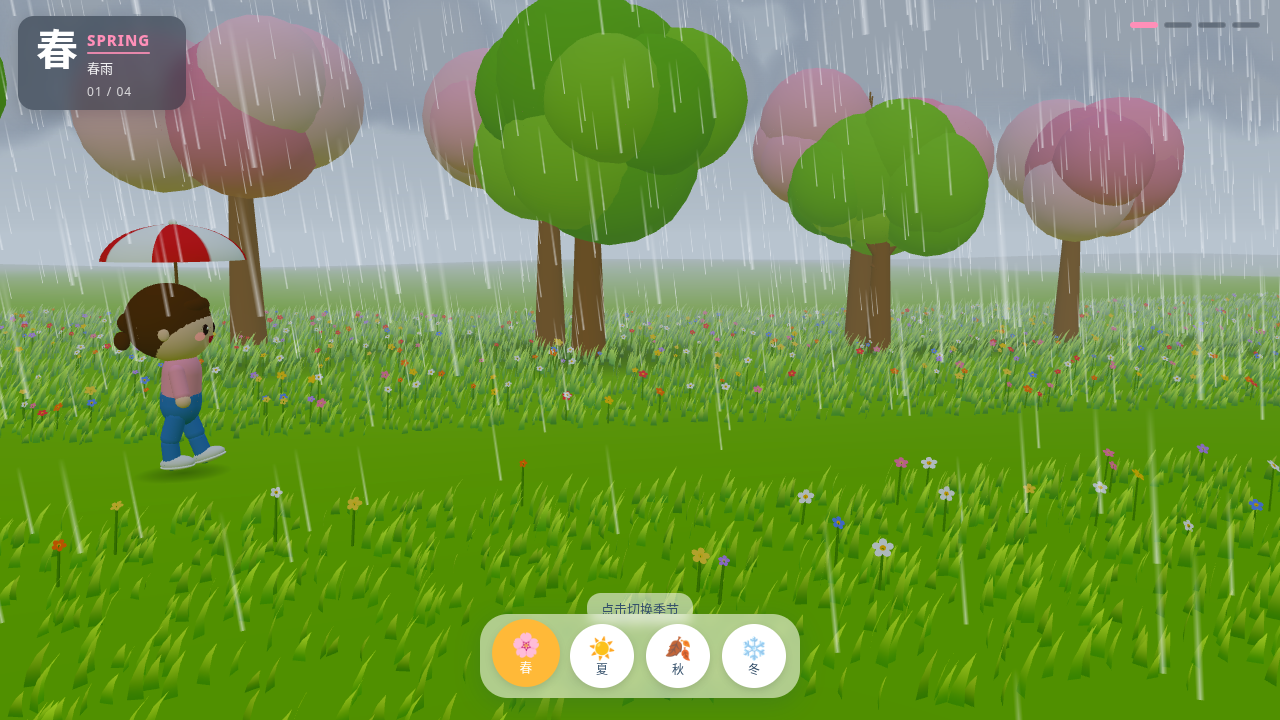
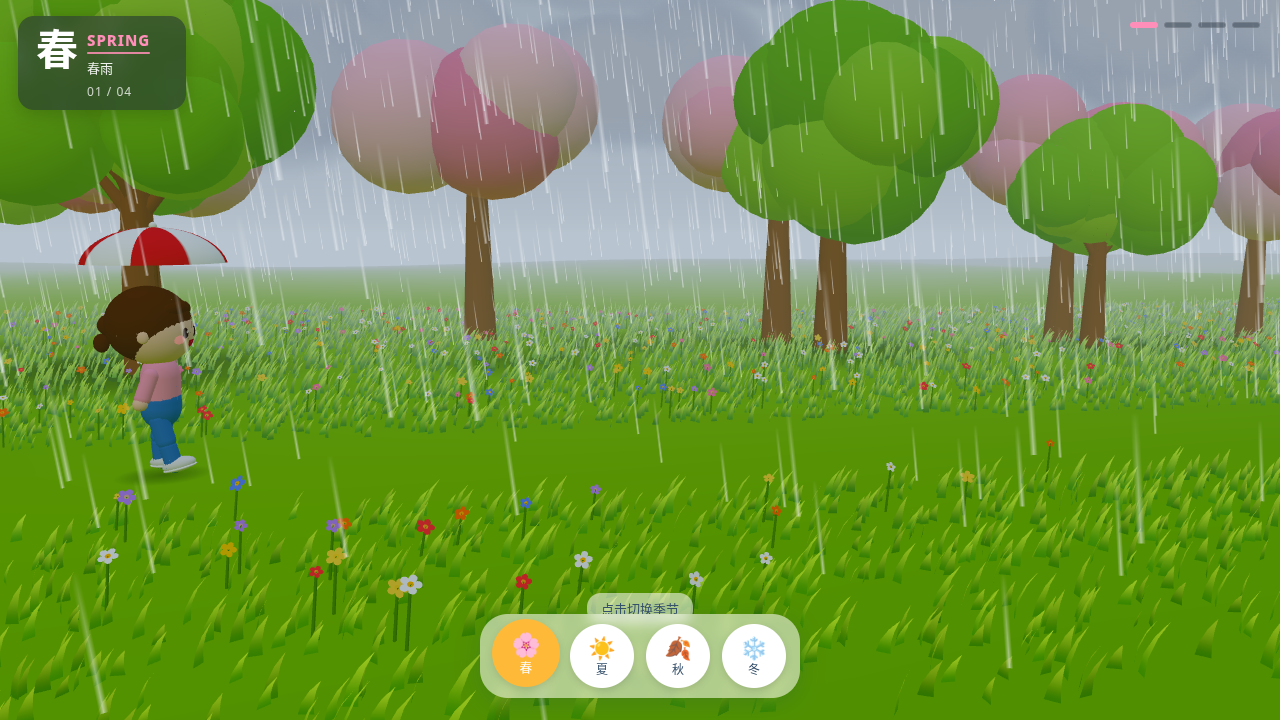
放慢走路节奏，步态更柔和
步速与步频降低，步幅和摆臂收小，膝盖弯曲更轻。

diff --git a/main.js b/main.js
@@ -561,7 +561,7 @@ const kids = [];
   scene.add(k);
   Object.assign(k.userData, {
     season: name, blob: blob(1, pathCZ(1), 0.38, 1.1), heading: Math.PI / 2,
-    walkPh: 0, w: { walk: 1, sit: 0, look: 0 }, act: 'walk', speed: 1.22,
+    walkPh: 0, w: { walk: 1, sit: 0, look: 0 }, act: 'walk', speed: 0.62,
   });
   if (d.umbrella) {
     const g = new THREE.Group();
@@ -836,30 +836,34 @@ function update(dt) {
   hero.userData.heading = Math.PI / 2;
   hero.rotation.y = hero.userData.heading;
   hero.userData.blob.position.set(hero.position.x, hgt(hero.position.x, hero.position.z) + 0.03, hero.position.z + 0.05);
-  hero.userData.walkPh += dt * hero.userData.speed * 11.5;
+  // Slow graceful cadence (decoupled from travel speed)
+  hero.userData.walkPh += dt * 5.8;
   const ph = hero.userData.walkPh;
-  const wc = Math.sin(ph), ww = 1;
-  const armW = Math.sin(ph - 0.28); // arms slightly delayed vs legs
+  const wc = Math.sin(ph);
+  const armW = Math.sin(ph - 0.35);
   const u = hero.userData;
-  const stride = 0.82; // thigh peak ~0.7–0.9 rad
+  const stride = 0.48; // softer, prettier stride
   u.legs.forEach((l, i) => {
-    const side = i ? 1 : -1; // clear opposite L/R phase
-    const thighAng = side * wc * stride * ww;
-    l.rotation.x = thighAng; l.rotation.z = 0;
-    // Knee folds on swing leg when thigh is forward/up
-    const forward = Math.max(0, side * wc);
-    if (l.userData.shin) l.userData.shin.rotation.x = -forward * 0.95 * ww;
+    const side = i ? 1 : -1;
+    l.rotation.x = side * wc * stride;
+    l.rotation.z = 0;
+    // Gentle knee bend only on the swinging forward half
+    const swing = Math.max(0, side * wc);
+    if (l.userData.shin) l.userData.shin.rotation.x = -swing * 0.55;
   });
-  // Double-frequency step bob
-  u.body.position.y = Math.abs(Math.sin(ph * 2)) * 0.03 * ww;
-  u.torso.scale.y = 1 + Math.sin(simTime * 1.6 + u.ph) * 0.012;
-  u.torso.rotation.x = 0.1; // subtle forward lean
-  u.torso.rotation.y = -wc * 0.07 * ww; // shoulder/torso yaw swagger
-  u.head.rotation.x = -0.04; u.head.rotation.z = Math.sin(simTime * 0.6 + u.ph) * 0.03; u.head.position.set(0, 1.11, 0);
+  // Soft double-step bob
+  const bob = Math.sin(ph * 2);
+  u.body.position.y = bob * bob * 0.018;
+  u.torso.scale.y = 1 + Math.sin(simTime * 1.2 + u.ph) * 0.008;
+  u.torso.rotation.x = 0.05;
+  u.torso.rotation.y = -wc * 0.035;
+  u.head.rotation.x = -0.02;
+  u.head.rotation.z = Math.sin(simTime * 0.5 + u.ph) * 0.02;
+  u.head.position.set(0, 1.11, 0);
   u.arms.forEach((a, i) => {
     const sx = a.userData.sx;
-    if (u.umb && i === 1) { a.rotation.z = 2.6; a.rotation.x = -0.15; }
-    else { a.rotation.z = sx * 0.3; a.rotation.x = (i ? -1 : 1) * armW * 0.55 * ww; }
+    if (u.umb && i === 1) { a.rotation.z = 2.6; a.rotation.x = -0.12; }
+    else { a.rotation.z = sx * 0.28; a.rotation.x = (i ? -1 : 1) * armW * 0.32; }
   });
   if (u.umb) { u.umb.g.visible = true; u.umb.g.position.set(0.1, 1.04 + u.body.position.y, 0); u.umb.can.scale.set(1, 1, 1); }
 

diff --git a/index.html b/index.html
@@ -56,6 +56,6 @@ document.querySelectorAll('#ui button').forEach(function(b){ b.addEventListener(
   if (window.setWeather) window.setWeather(b.dataset.w); else window.__pendingWeather = b.dataset.w; }); });
 window.addEventListener('error', function(e){ var d=document.getElementById('err'); d.style.display='block'; d.textContent='3D 场景加载出错：' + (e.message||e); });
 </script>
-<script type="module" src="./main.js?v=1792751200"></script>
+<script type="module" src="./main.js?v=1792755000"></script>
 </body>
 </html>
